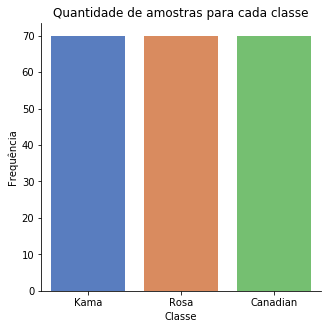
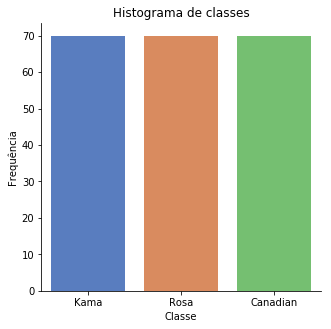
docs: notebook's conversion to markdown

Changed region(s): [[0.1511, 0.0304, 0.9366, 0.0608]]

diff --git a/practical-project-4/resolucao-atividade-4.md b/practical-project-4/resolucao-atividade-4.md
@@ -1,7 +1,7 @@
 
 # Atividade 4
 
-## Equipe:
+## Dupla:
 
 * Felipe Getúlio Laranjeira do Nascimento
 * Lucas Pereira Reis
@@ -12,7 +12,7 @@
 ```python
 import pandas as pd
 import numpy as np
-import combination as comb
+from combination import partitions
 from math import *
 import seaborn as sns
 import matplotlib.pyplot as plt
@@ -45,10 +45,11 @@ print(f'Tamanho do dataset: {len(df)}')
 
 ```python
 target_name = "variety"
+classes_names = ['Kama','Rosa','Canadian']
 g = sns.catplot(x=target_name, data=df, kind="count", palette="muted", height=4.5, aspect=1.0)
-g.set_xticklabels(['Kama', 'Rosa', 'Canadian'])
+g.set_xticklabels(classes_names)
 g.set_axis_labels("Classe", "Frequência")
-plt.title('Quantidade de amostras para cada classe')
+plt.title('Histograma de classes')
 plt.show()
 ```
 
@@ -77,7 +78,7 @@ plt.show()
 ![png](resolucao-atividade-4_files/resolucao-atividade-4_11_0.png)
 
 
-O *heatmap* acima exibe a correlação de Pearson entre todos os atributos do *dataset*, como pode ser visto o atributo `length_kernel_groove` possui uma correlação de aproximadamente igual a 0 com o atributo alvo `variety`. Assim, optou-se por remover o atributo do *dataset*.
+O *heatmap* acima exibe a correlação de Pearson entre todos os atributos do *dataset*, como pode ser visto o atributo `length_kernel_groove` possui uma correlação de aproximadamente igual a 0 com o atributo alvo `variety`. Assim, optou-se por removê-lo do *dataset*.
 
 
 ```python
@@ -96,7 +97,7 @@ df.drop(['variety'],axis=1,inplace=True)
 
 
 ```python
-n_i, n_o = len(df.columns), 3
+input_neurons_amount, output_neurons_amount = len(df.columns), 3
 ```
 
 
@@ -106,27 +107,31 @@ X_train, X_test, Y_train, Y_test = train_test_split(df,target,test_size=0.3)
 
 
 ```python
-def geometric_pyramid(alpha):
-    return alpha*sqrt(n_i*n_o)
-```
+def hidden_neurons_amount(alpha):
+    return alpha * sqrt(input_neurons_amount * output_neurons_amount)
 
-#### Observação:
-Para um `alpha = 2` ou `alpha = 3` o algoritmo para gerar o subconjunto fica bastante pesado. Talvez seja necessário diminuir o valor de `n_i` retirando colunas desnecessárias ou utilizar PCA. Coloquei `alpha = 1` apenas para testar
+def condition_to_insert(partition):
+    return len(partition) <= 4
+```
 
 
 ```python
-alpha = [0.5,1]
-n_h = [ceil(geometric_pyramid(a)) for a in alpha]
+alpha = [0.5, 2, 3]
+hidden_neurons_amounts = [ceil(hidden_neurons_amount(a)) for a in alpha]
 hidden_layer_sizes = []
 
-for n in n_h:
-    subsets = comb.partitions(n)
-    hidden_layer_sizes = hidden_layer_sizes + subsets
+for n in hidden_neurons_amounts:
+    tuples = partitions(n, condition_to_insert)
+    hidden_layer_sizes += tuples
+print(f'Quantidade de possíveis camadas ocultas: {len(hidden_layer_sizes)}')
 ```
+
+    Quantidade de possíveis camadas ocultas: 396
+
 
 # Paramêtros/Hiperparamêtros para a busca em grade
 
-Na célula seguinte temos os paramêtros a serem passados para as redes neurais. Para o hiperparamêtro *solver*, optou-se por utilizar apenas o `lbfgs` pois o *dataset* desta atividade possui apenas 210 amostras, caracterizando-o como um *dataset* pequeno. Assim, o *solver* `lbfgs` será mais eficiente para o problema.
+Na célula seguinte temos os paramêtros a serem passados para as redes neurais. Para o hiperparamêtro *solver*, optou-se por utilizar apenas o `lbfgs` pois o *dataset* desta atividade possui apenas 210 amostras, caracterizando-o como um *dataset* pequeno. Assim, o *solver* `lbfgs` será mais eficiente e irá convergir mais rápido para o problema.
 
 
 ```python
@@ -153,8 +158,34 @@ X,y = df,target
 
 
 ```python
-gs.fit(X,y);
+gs.fit(X,y)
 ```
+
+
+
+
+    GridSearchCV(cv=3, error_score='raise',
+           estimator=MLPClassifier(activation='relu', alpha=0.0001, batch_size='auto', beta_1=0.9,
+           beta_2=0.999, early_stopping=False, epsilon=1e-08,
+           hidden_layer_sizes=(100,), learning_rate='constant',
+           learning_rate_init=0.001, max_iter=200, momentum=0.9,
+           nesterovs_momentum=True, power_t=0.5, random_state=None,
+           shuffle=True, solver='adam', tol=0.0001, validation_fraction=0.1,
+           verbose=False, warm_start=False),
+           fit_params=None, iid=True, n_jobs=1,
+           param_grid={'activation': ['identity', 'logistic', 'tanh', 'relu'], 'hidden_layer_sizes': [(3,), (1, 2), (2, 1), (1, 1, 1), (9,), (8, 1), (1, 8), (2, 7), (7, 2), (7, 1, 1), (1, 7, 1), (1, 1, 7), (6, 3), (3, 6), (1, 6, 2), (1, 2, 6), (6, 1, 2), (2, 6, 1), (2, 1, 6), (6, 2, 1), (6, 1, 1, 1), (1, 1, 1,..., 4, 2), (2, 4, 4, 3), (3, 3, 4, 3), (3, 3, 3, 4), (4, 3, 3, 3), (3, 4, 3, 3)], 'solver': ['lbfgs']},
+           pre_dispatch='2*n_jobs', refit=True, return_train_score=1,
+           scoring='accuracy', verbose=0)
+
+
+
+
+```python
+print(f'Quantidade de Redes Neurais projetadas: {len(pd.DataFrame(gs.cv_results_))}')
+```
+
+    Quantidade de Redes Neurais projetadas: 1584
+
 
 
 ```python
@@ -204,109 +235,109 @@ pd.DataFrame(gs.cv_results_).drop('params', 1).sort_values(by='rank_test_score')
   </thead>
   <tbody>
     <tr>
-      <th>6</th>
-      <td>0.049931</td>
-      <td>0.000568</td>
-      <td>0.000378</td>
-      <td>0.000074</td>
+      <th>448</th>
+      <td>0.066222</td>
+      <td>0.000157</td>
+      <td>0.000348</td>
+      <td>0.000008</td>
+      <td>logistic</td>
+      <td>(4, 2, 3)</td>
+      <td>lbfgs</td>
+      <td>0.972222</td>
+      <td>0.884058</td>
+      <td>0.840580</td>
+      <td>0.900000</td>
+      <td>0.055063</td>
+      <td>1</td>
+      <td>0.847826</td>
+      <td>0.865248</td>
+      <td>0.957447</td>
+      <td>0.890174</td>
+      <td>0.048098</td>
+    </tr>
+    <tr>
+      <th>50</th>
+      <td>0.058426</td>
+      <td>0.000354</td>
+      <td>0.000340</td>
+      <td>0.000026</td>
       <td>identity</td>
-      <td>(3, 2)</td>
+      <td>(2, 4, 3)</td>
+      <td>lbfgs</td>
+      <td>0.958333</td>
+      <td>0.927536</td>
+      <td>0.811594</td>
+      <td>0.900000</td>
+      <td>0.063117</td>
+      <td>1</td>
+      <td>0.905797</td>
+      <td>0.914894</td>
+      <td>0.936170</td>
+      <td>0.918954</td>
+      <td>0.012728</td>
+    </tr>
+    <tr>
+      <th>353</th>
+      <td>0.070038</td>
+      <td>0.002685</td>
+      <td>0.000395</td>
+      <td>0.000015</td>
+      <td>identity</td>
+      <td>(2, 4, 5, 2)</td>
+      <td>lbfgs</td>
+      <td>0.944444</td>
+      <td>0.942029</td>
+      <td>0.797101</td>
+      <td>0.895238</td>
+      <td>0.068658</td>
+      <td>3</td>
+      <td>0.869565</td>
+      <td>0.865248</td>
+      <td>0.957447</td>
+      <td>0.897420</td>
+      <td>0.042482</td>
+    </tr>
+    <tr>
+      <th>390</th>
+      <td>0.067096</td>
+      <td>0.000481</td>
+      <td>0.000418</td>
+      <td>0.000053</td>
+      <td>identity</td>
+      <td>(3, 4, 4, 2)</td>
+      <td>lbfgs</td>
+      <td>0.944444</td>
+      <td>0.927536</td>
+      <td>0.811594</td>
+      <td>0.895238</td>
+      <td>0.058921</td>
+      <td>3</td>
+      <td>0.898551</td>
+      <td>0.886525</td>
+      <td>0.985816</td>
+      <td>0.923630</td>
+      <td>0.044245</td>
+    </tr>
+    <tr>
+      <th>385</th>
+      <td>0.068051</td>
+      <td>0.001706</td>
+      <td>0.000401</td>
+      <td>0.000046</td>
+      <td>identity</td>
+      <td>(4, 3, 2, 4)</td>
       <td>lbfgs</td>
       <td>0.958333</td>
       <td>0.927536</td>
       <td>0.797101</td>
       <td>0.895238</td>
       <td>0.069800</td>
-      <td>1</td>
+      <td>3</td>
       <td>0.905797</td>
-      <td>0.907801</td>
-      <td>1.000000</td>
-      <td>0.937866</td>
-      <td>0.043943</td>
-    </tr>
-    <tr>
-      <th>0</th>
-      <td>0.049905</td>
-      <td>0.012329</td>
-      <td>0.000321</td>
-      <td>0.000037</td>
-      <td>identity</td>
-      <td>(3,)</td>
-      <td>lbfgs</td>
-      <td>0.944444</td>
-      <td>0.927536</td>
-      <td>0.782609</td>
-      <td>0.885714</td>
-      <td>0.072459</td>
-      <td>2</td>
-      <td>0.891304</td>
-      <td>0.907801</td>
-      <td>1.000000</td>
-      <td>0.933035</td>
-      <td>0.047828</td>
-    </tr>
-    <tr>
-      <th>4</th>
-      <td>0.043575</td>
-      <td>0.000279</td>
-      <td>0.000358</td>
-      <td>0.000002</td>
-      <td>identity</td>
-      <td>(5,)</td>
-      <td>lbfgs</td>
-      <td>0.958333</td>
-      <td>0.927536</td>
-      <td>0.768116</td>
-      <td>0.885714</td>
-      <td>0.083227</td>
-      <td>2</td>
-      <td>0.884058</td>
-      <td>0.900709</td>
-      <td>1.000000</td>
-      <td>0.928256</td>
-      <td>0.051184</td>
-    </tr>
-    <tr>
-      <th>12</th>
-      <td>0.049238</td>
-      <td>0.000067</td>
-      <td>0.000293</td>
-      <td>0.000007</td>
-      <td>identity</td>
-      <td>(2, 3)</td>
-      <td>lbfgs</td>
-      <td>0.958333</td>
-      <td>0.927536</td>
-      <td>0.768116</td>
-      <td>0.885714</td>
-      <td>0.083227</td>
-      <td>2</td>
-      <td>0.905797</td>
-      <td>0.907801</td>
-      <td>0.985816</td>
-      <td>0.933138</td>
-      <td>0.037258</td>
-    </tr>
-    <tr>
-      <th>24</th>
-      <td>0.042239</td>
-      <td>0.006113</td>
-      <td>0.000363</td>
-      <td>0.000031</td>
-      <td>logistic</td>
-      <td>(5,)</td>
-      <td>lbfgs</td>
-      <td>0.888889</td>
-      <td>0.927536</td>
-      <td>0.811594</td>
-      <td>0.876190</td>
-      <td>0.047881</td>
-      <td>5</td>
-      <td>0.927536</td>
-      <td>0.851064</td>
-      <td>0.943262</td>
-      <td>0.907287</td>
-      <td>0.040271</td>
+      <td>0.886525</td>
+      <td>0.992908</td>
+      <td>0.928410</td>
+      <td>0.046281</td>
     </tr>
   </tbody>
 </table>
@@ -321,12 +352,26 @@ Acima temos o *DataFrame* das Redes Neurais projetadas com o `GridSearchCV` orde
 
 ```python
 best_model = gs.best_estimator_
+print(best_model)
 ```
+
+    MLPClassifier(activation='identity', alpha=0.0001, batch_size='auto',
+           beta_1=0.9, beta_2=0.999, early_stopping=False, epsilon=1e-08,
+           hidden_layer_sizes=(2, 4, 3), learning_rate='constant',
+           learning_rate_init=0.001, max_iter=200, momentum=0.9,
+           nesterovs_momentum=True, power_t=0.5, random_state=None,
+           shuffle=True, solver='lbfgs', tol=0.0001, validation_fraction=0.1,
+           verbose=False, warm_start=False)
+
 
 
 ```python
 Y_pred = best_model.predict(X_test)
 ```
+
+Para esta atividade, será utilizado como métrica a acurácia. Porém também será exibido a matriz de confusão da melhor rede neural apenas para visualizar o seu comportamento.
+
+## Acurácia
 
 
 ```python
@@ -336,22 +381,27 @@ accuracy_score(Y_test,Y_pred)
 
 
 
-    0.9682539682539683
+    0.9523809523809523
 
 
 
-# Exportando para *Markdown*
+## Matriz de Confusão
 
 
 ```python
-!jupyter nbconvert Atividade_4.ipynb --to markdown --output resolucao-atividade-4.md
+plt.figure(figsize = (6,6))
+
+g = sns.heatmap(confusion_matrix(Y_test,Y_pred),annot=True,square=True,fmt="d",cmap="Blues")
+g.set_xticklabels(classes_names)
+g.set_yticklabels(classes_names)
+g.set_ylabel('Rótulo real')
+g.set_xlabel('Rótulo previsto')
+g.set_title('Matriz de Confusão')
+plt.show()
 ```
 
-    [NbConvertApp] Converting notebook Atividade_4.ipynb to markdown
-    [NbConvertApp] Support files will be in resolucao-atividade-4_files/
-    [NbConvertApp] Making directory resolucao-atividade-4_files
-    [NbConvertApp] Making directory resolucao-atividade-4_files
-    [NbConvertApp] Writing 4771 bytes to resolucao-atividade-4.md
+
+![png](resolucao-atividade-4_files/resolucao-atividade-4_39_0.png)
 
 
 
